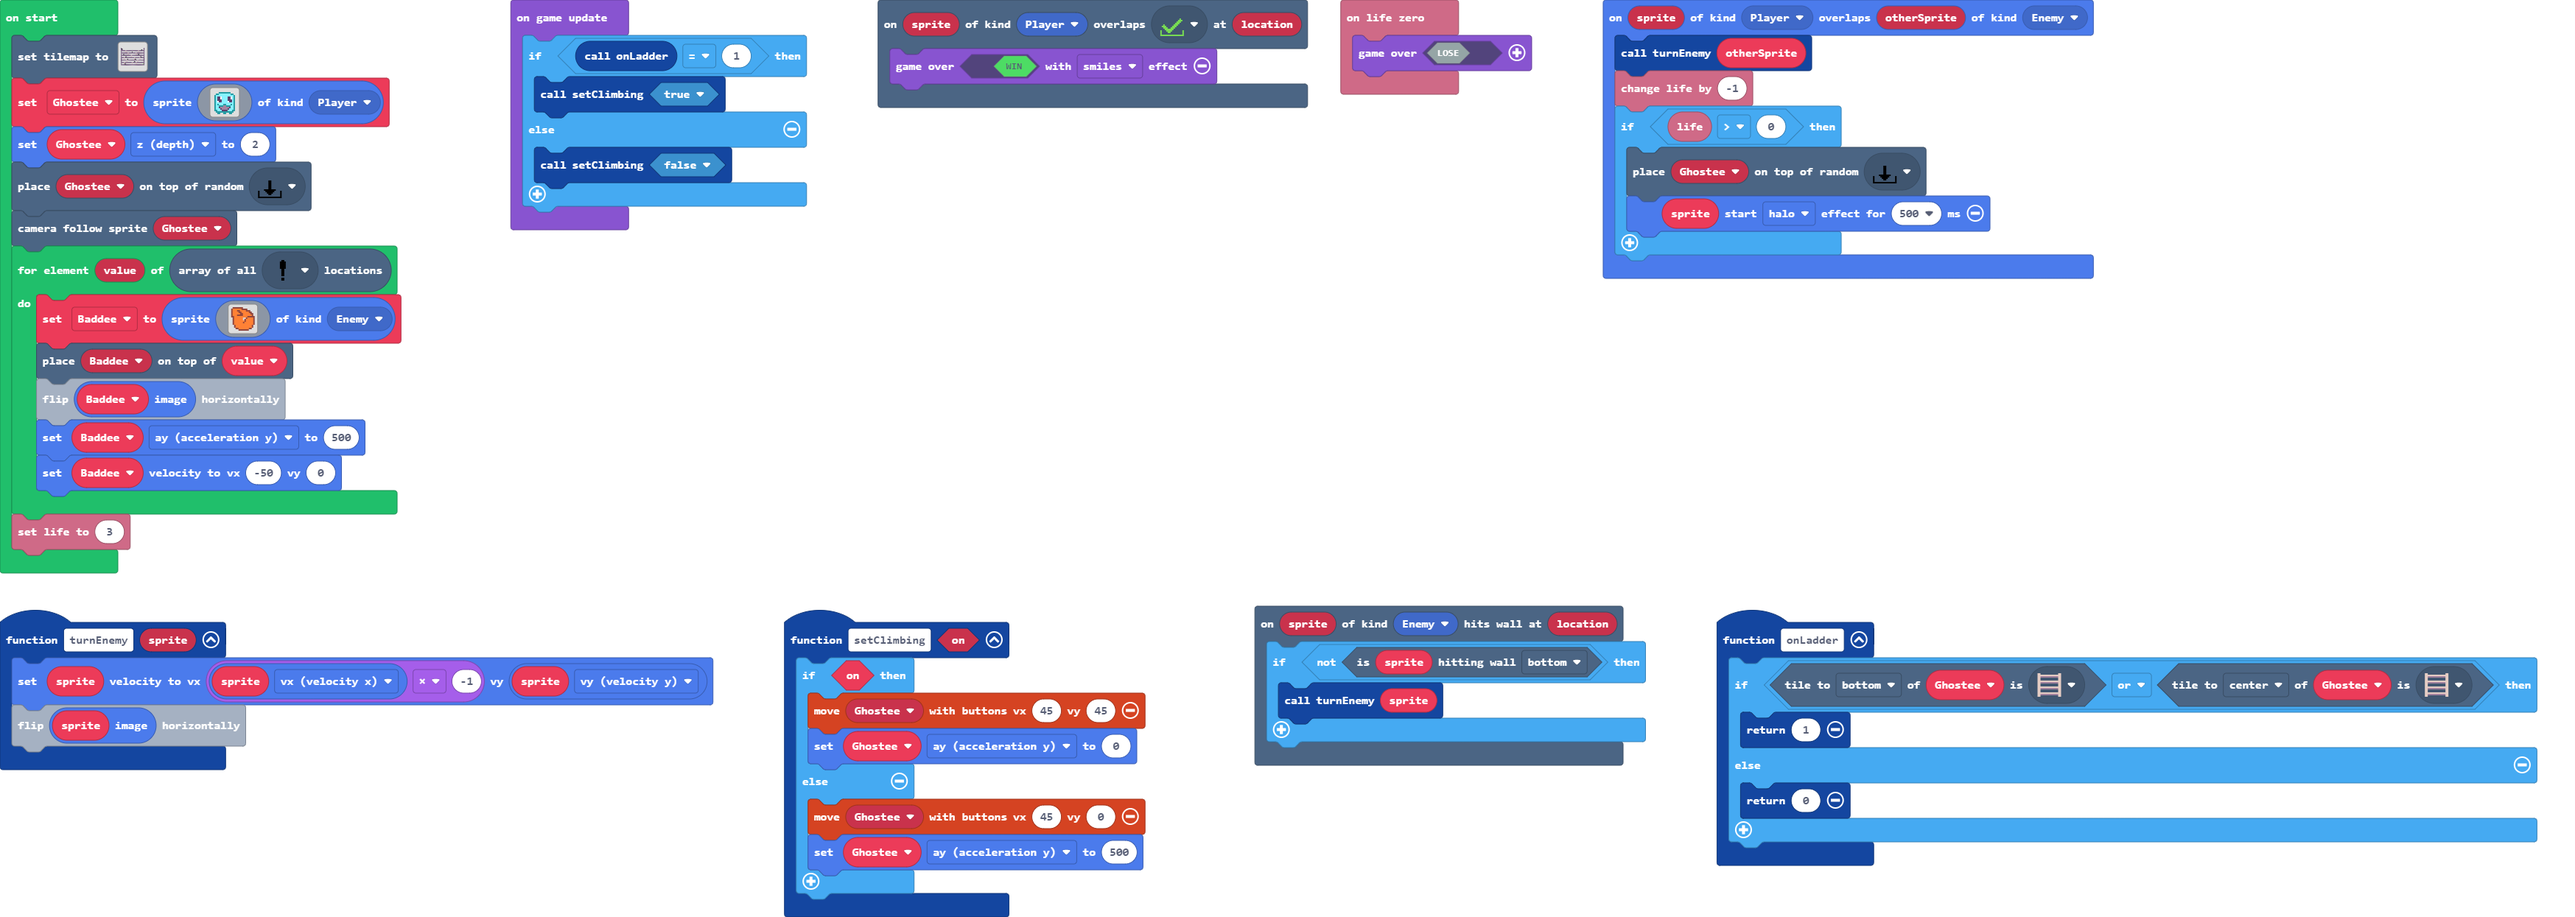
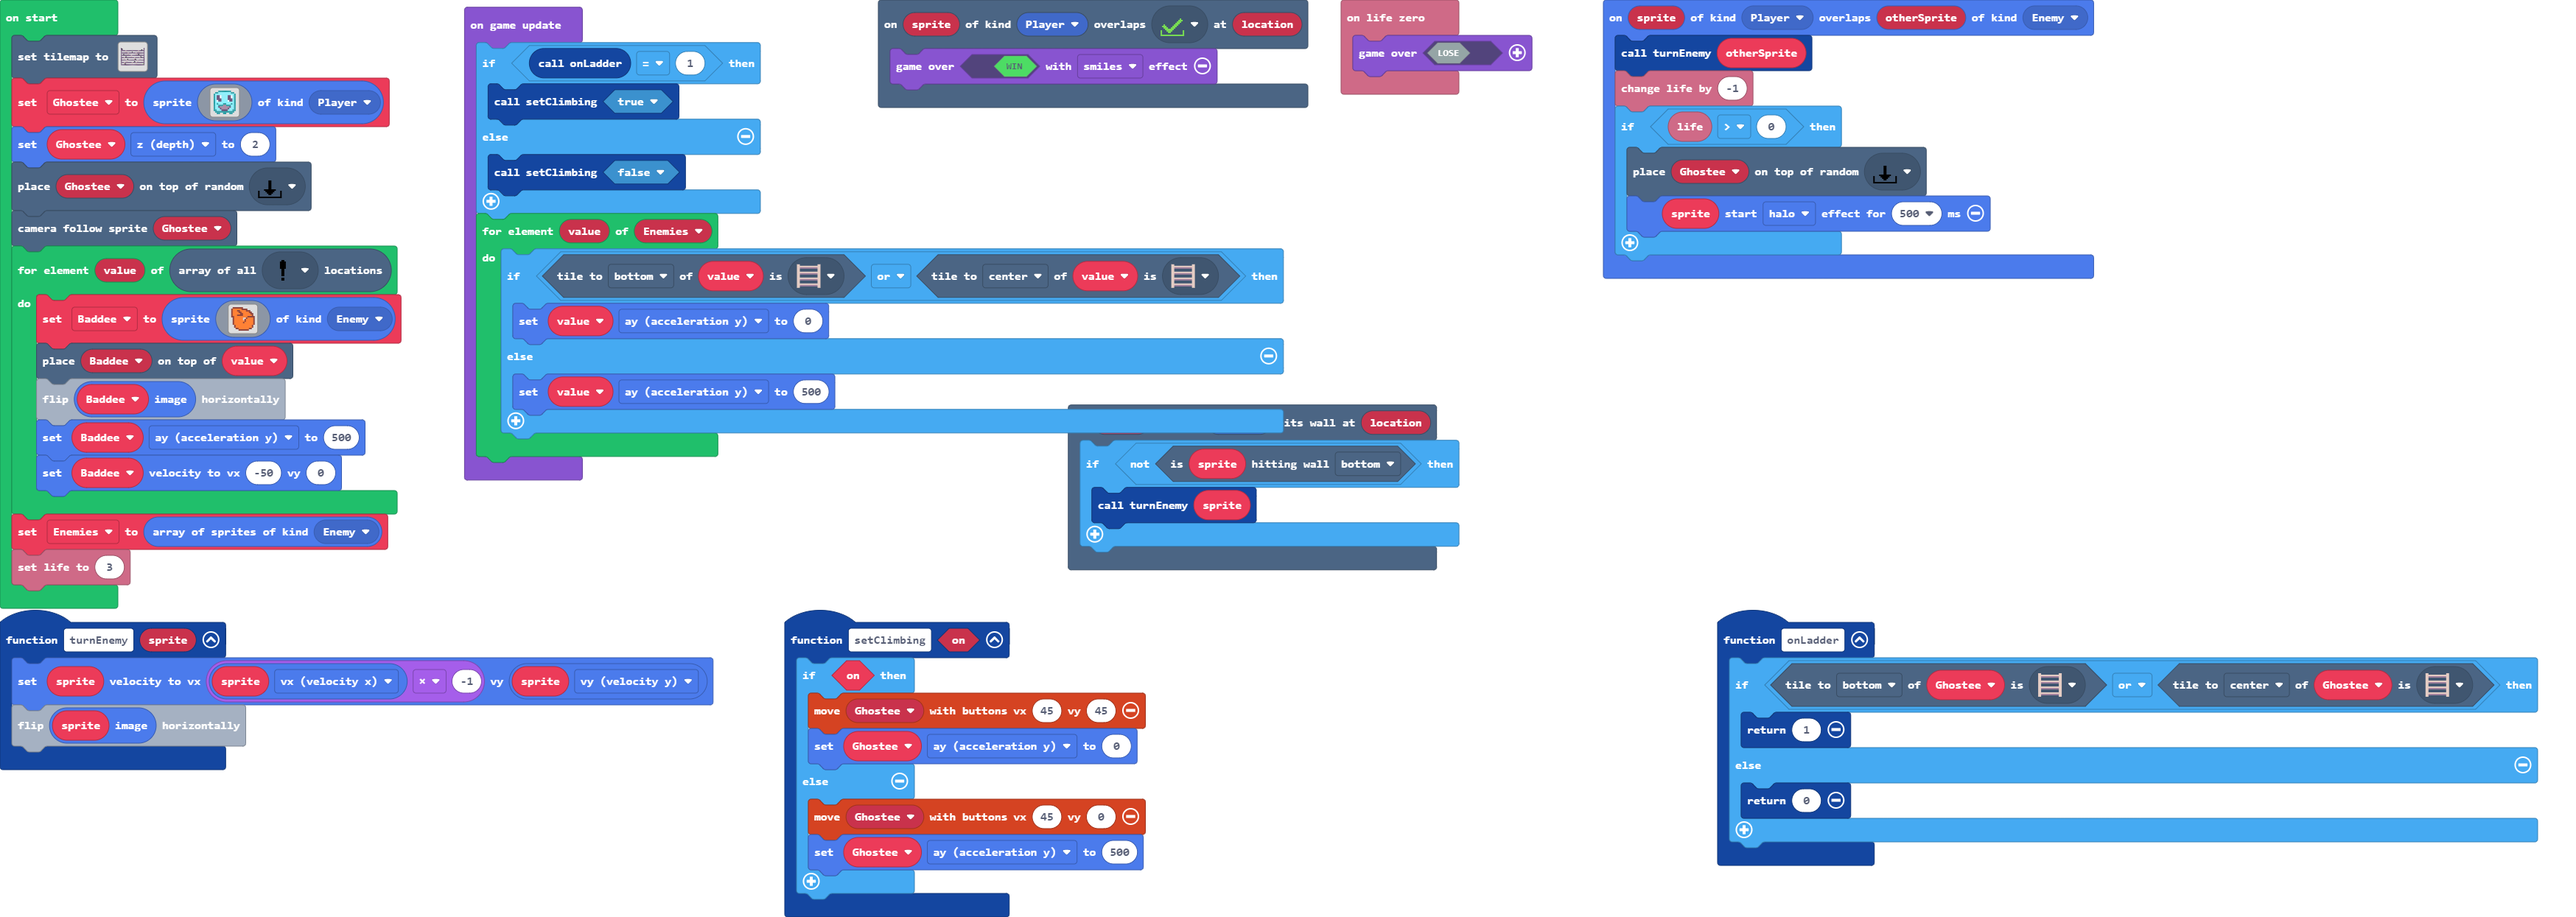
Fix fallthru glitch

diff --git a/main.ts b/main.ts
@@ -41,7 +41,6 @@ let Baddee: Sprite = null
 let Ghostee: Sprite = null
 tiles.setTilemap(tilemap`level_0`)
 Ghostee = sprites.create(img`
-    . . . . . . . . . . . . . . 
     . . . 6 6 6 6 6 6 6 6 . . . 
     . 6 6 9 9 9 9 9 9 9 9 6 6 . 
     6 9 9 9 9 9 9 9 9 9 9 9 9 6 
@@ -85,11 +84,19 @@ for (let value of tiles.getTilesByType(myTiles.tile4)) {
     Baddee.ay = 500
     Baddee.setVelocity(-50, 0)
 }
+let Enemies = sprites.allOfKind(SpriteKind.Enemy)
 info.setLife(3)
 game.onUpdate(function () {
     if (onLadder() == 1) {
         setClimbing(true)
     } else {
         setClimbing(false)
+    }
+    for (let value of Enemies) {
+        if (value.tileKindAt(TileDirection.Bottom, myTiles.tile5) || value.tileKindAt(TileDirection.Center, myTiles.tile5)) {
+            value.ay = 0
+        } else {
+            value.ay = 500
+        }
     }
 })
